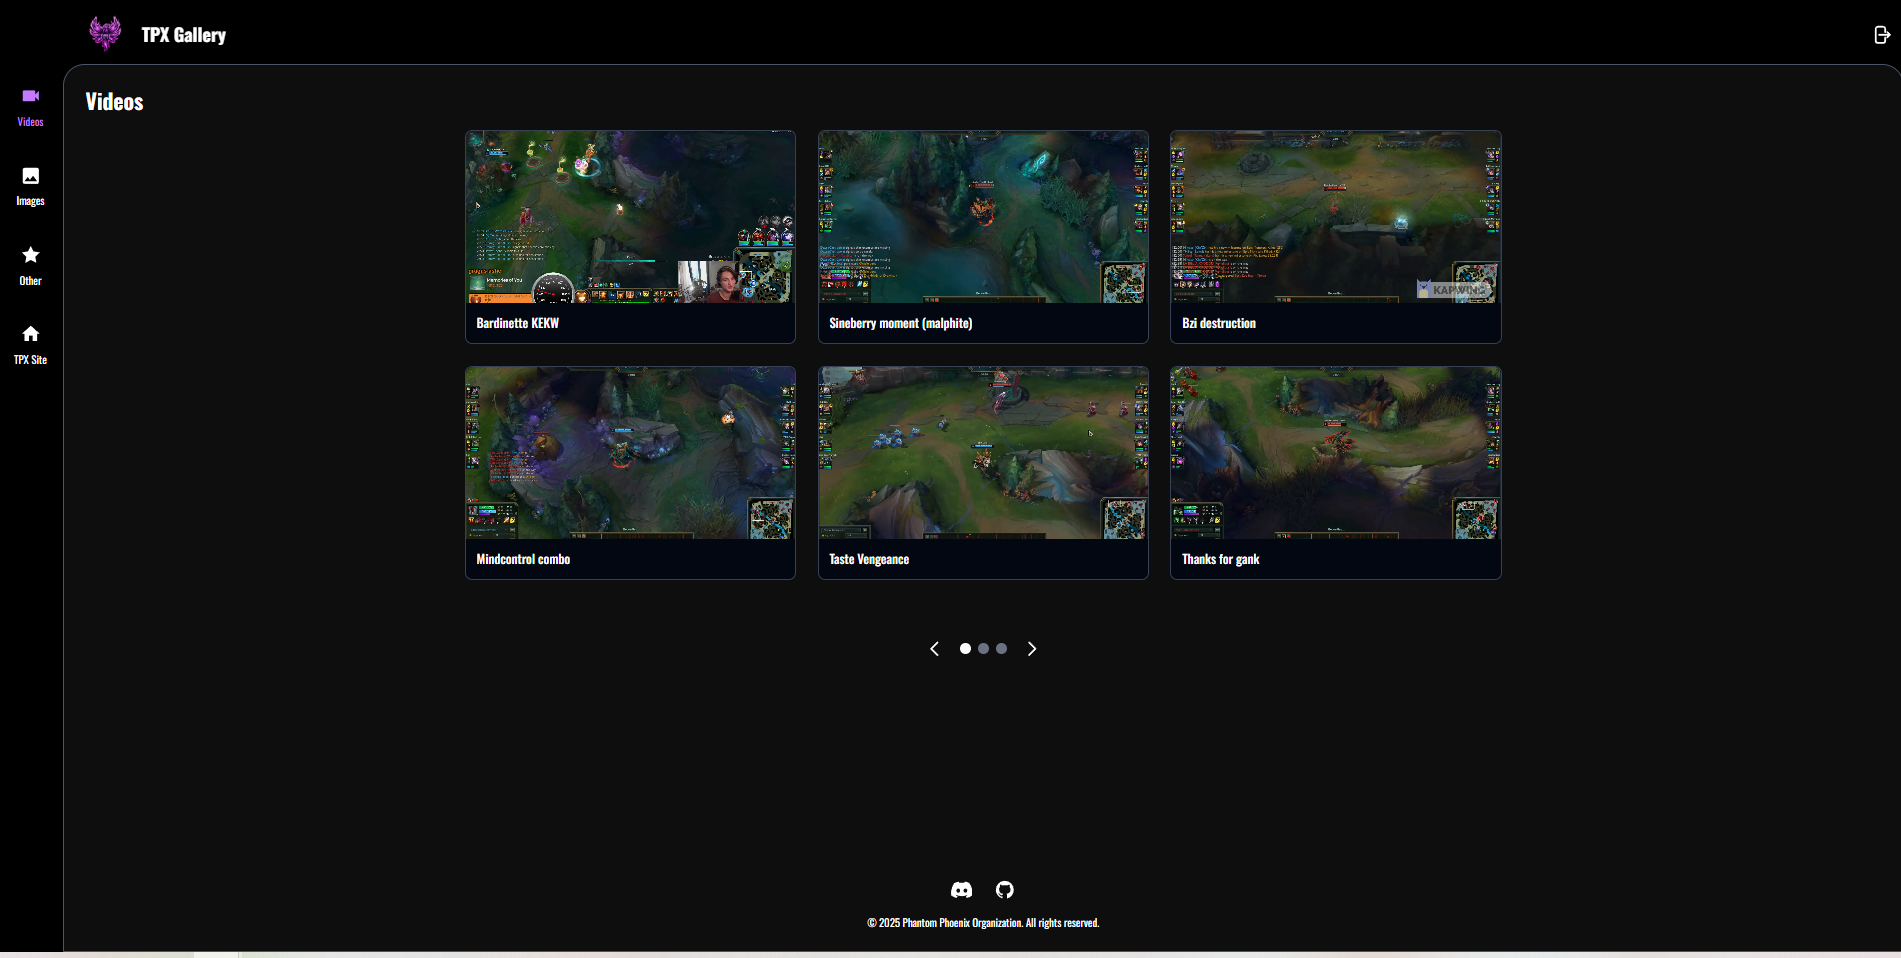
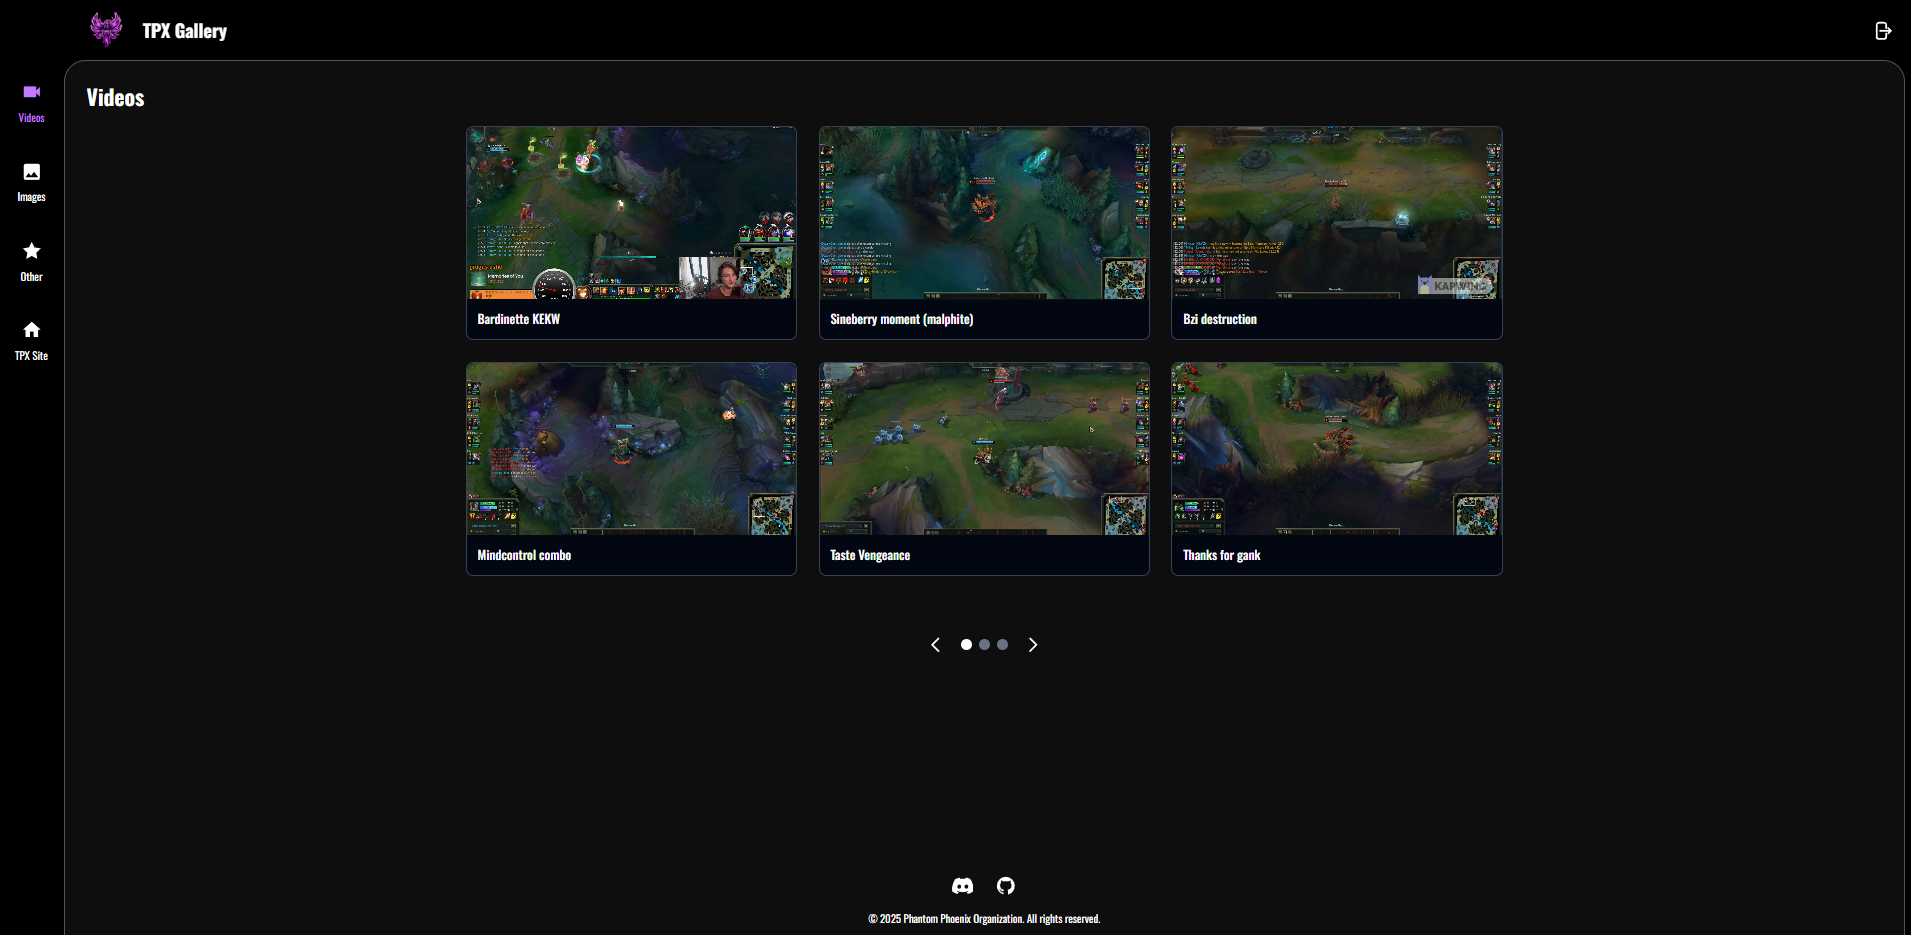
small project page fixes

diff --git a/src/Components/ProjectsPage.tsx b/src/Components/ProjectsPage.tsx
@@ -25,15 +25,14 @@ const projects = [
 
 const ProjectsPage = () => {
     const [index, setIndex] = useState(0)
-    const [isFading, setIsFading] = useState(false)
+    const [isLoading, setIsLoading] = useState(false)
     const total = projects.length
 
     const navigateTo = (nextIndex: number) => {
-        setIsFading(true)
+        setIsLoading(true)
         setTimeout(() => {
-            setIndex(((nextIndex % total) + total) % total)
-            // allow DOM to update before showing
-            setTimeout(() => setIsFading(false), 20)
+            setIndex(((nextIndex % total) + total) % total)	
+            setTimeout(() => setIsLoading(false), 750)
         }, 180)
     }
 
@@ -57,19 +56,27 @@ const ProjectsPage = () => {
 				<div className="mt-10 max-w-4xl mx-auto flex items-center gap-6">
 					<button
 						onClick={goPrev}
-						className="text-purple-500 hover:text-purple-400 transition-colors"
+						disabled={isLoading}
+						className={`text-purple-500 hover:text-purple-400 transition-colors ${isLoading ? 'opacity-50 cursor-not-allowed' : ''}`}
 						aria-label="Previous project"
 					>
 						<svg className="h-8 w-8" viewBox="0 0 24 24" fill="none" stroke="currentColor" strokeWidth="2" strokeLinecap="round" strokeLinejoin="round"><path d="M15 18l-6-6 6-6"/></svg>
 					</button>
 
-					<div className={`flex-1 transition-opacity duration-300 ${isFading ? 'opacity-0' : 'opacity-100'}`}>
-						<ProjectDisplay {...projects[index]} />
+					<div className="flex-1">
+						{isLoading ? (
+							<div className="flex items-center justify-center h-[380px] sm:h-[460px]">
+								<div className="animate-spin rounded-full h-16 w-16 border-b-2 border-purple-500"></div>
+							</div>
+						) : (
+							<ProjectDisplay {...projects[index]} />
+						)}
 					</div>
 
 					<button
 						onClick={goNext}
-						className="text-purple-500 hover:text-purple-400 transition-colors"
+						disabled={isLoading}
+						className={`text-purple-500 hover:text-purple-400 transition-colors ${isLoading ? 'opacity-50 cursor-not-allowed' : ''}`}
 						aria-label="Next project"
 					>
 						<svg className="h-8 w-8" viewBox="0 0 24 24" fill="none" stroke="currentColor" strokeWidth="2" strokeLinecap="round" strokeLinejoin="round"><path d="M9 6l6 6-6 6"/></svg>
@@ -84,7 +91,8 @@ const ProjectsPage = () => {
                             <button
                                 key={p.name}
                                 onClick={() => goTo(i)}
-                                className={`h-2.5 w-2.5 rounded-full transition-colors ${i === index ? 'bg-purple-500' : 'bg-gray-600 hover:bg-gray-500'}`}
+                                disabled={isLoading}
+                                className={`h-2.5 w-2.5 rounded-full transition-colors ${i === index ? 'bg-purple-500' : 'bg-gray-600 hover:bg-gray-500'} ${isLoading ? 'opacity-50 cursor-not-allowed' : ''}`}
                                 aria-label={`Go to project ${i + 1}`}
                             />
                         ))}

diff --git a/src/Components/ProjectDisplay.tsx b/src/Components/ProjectDisplay.tsx
@@ -4,11 +4,11 @@ const ProjectDisplay = (project: any) => {
 		: project.image
 
 	return (
-		<div className="relative group overflow-hidden rounded-xl shadow-lg ring-1 ring-purple-500/30">
+		<div className="relative group overflow-hidden rounded-xl shadow-lg ring-3 ring-purple-500/100">
 			<img
 				src={imageSrc}
 				alt={project.name}
-				className="block w-full h-[380px] sm:h-[460px] object-cover"
+				className="block w-full h-[380px] sm:h-[460px] object-cover rounded-lg"
 			/>
 			<div className="pointer-events-none absolute inset-0 bg-black/0 group-hover:bg-black/80 transition-colors duration-300" />
 			<div className="absolute inset-0 flex items-center justify-center opacity-0 group-hover:opacity-100 transition-opacity duration-300 p-6 text-center">
